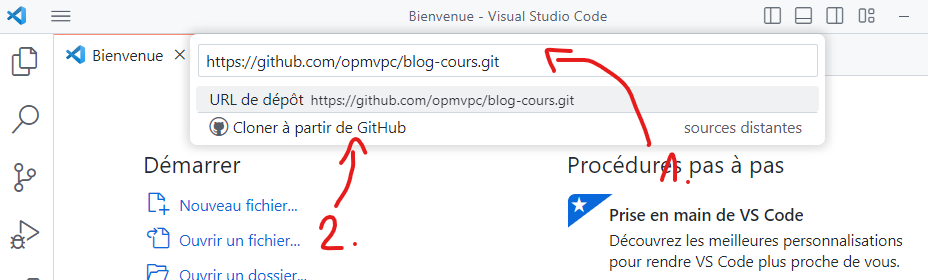
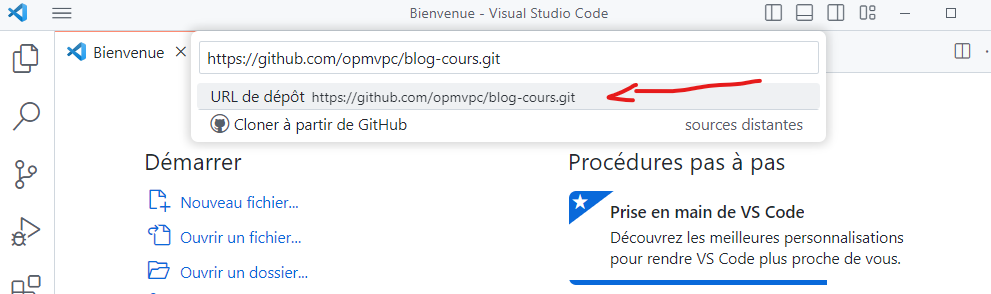
clone

diff --git a/README.md b/README.md
@@ -12,7 +12,7 @@
    ![](img/2.png)
 5. Ouvrez une nouvelle fenêtre de visual studio code et cliquez sur "Cloner un dépot sur..."
    ![](img/3.png)
-6. Collez l'url dans le popup et sélectionnez "cloner à partir de github"
+6. Collez l'url dans le popup et sélectionnez "[lien] url du dépot"
    ![](img/4.png)
 7. VS code vous propose de choisir l'endroit ou télécharger le code. On va sélectionner notre dossier "www" de laragon.
    ![](img/5.png)
@@ -21,3 +21,15 @@
 9. C'est gagné!
 
 ## Update du projet Laravel
+
+Attention, le code des dépendances n'est pas enregistré dans git! On doit maintenant installer les dépendaces PHP et Javascript.
+
+1. `composer update`
+2. `npm i` alias de `npm install`
+3. `npm run dev` dans un 2e terminal
+4. Créer un fichier `.env`en copiant le fichier `.env.example`
+5. Générer la clé d'encryption `php artisan key:generate`
+6. Modifier le `.env` pour indiquer les infos de connection à la base de données.
+7. Lancer la migration et le seeding de la base de données `php artisan migrate:fresh --seed`
+8. Créer le lien symbolique du dossier storage vers le dossier public `php artisan storage:link`
+  
